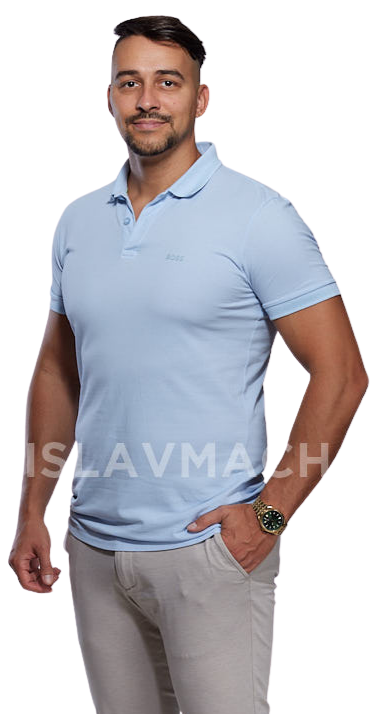
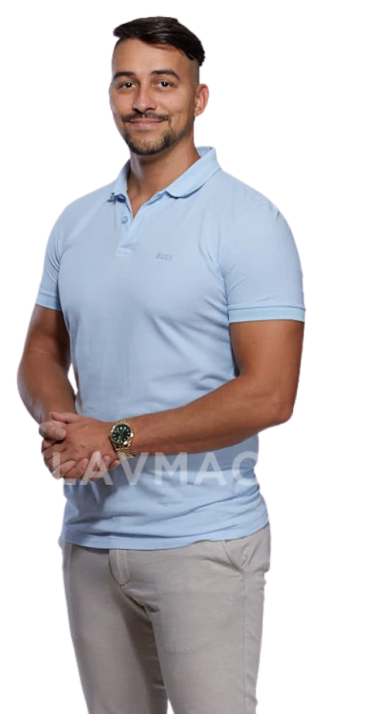
Nová fotka v hero O mně, opravy tabletu a mezer
- O mně: nová fotka v hero, usazená na stejnou velikost a místo hlavy
- tablet: Google hodnocení na lince s 5,0, jedna tečka pod 2. sloupcem Článků
- řádky název | text: mezera 32 px (gap: 0 ji dřív vynuloval) na 6 stránkách
- Recenze: poslední recenze → tlačítko 32 px
- check:spacing hlídá i mezeru textu vedle názvu
- úkol: přepsat pasáž o začátku v oboru na O mně

Changed region(s): [[0.0, 0.0, 1.0, 1.0], [0.4424, 0.8011, 0.5013, 0.8627], [0.4129, 0.4314, 0.4718, 0.493]]

diff --git a/docs/audits/prelaunch-p0-status.md b/docs/audits/prelaunch-p0-status.md
@@ -265,26 +265,32 @@ Nic z tohoto jsem sám neměnil (mimo rozsah, zadání to výslovně zakazuje):
 2. **Úpravy zobrazení pro mobil a desktop** (spolu s Claude — po každé úpravě `npm run check:layout` + `npm run check:typo`).
 3. **Favicon + obrázek pro sdílení (OG, 1200×630)** — uživatel dodá logo/fotku, Claude z nich připraví všechny velikosti a doplní meta značky. Bez faviconu hlásí každá stránka 404 v konzoli (jediná výtka Lighthouse).
 4. **Sekce Články na homepage** — dnes 3 zástupné řádky („Titulek - placeholder“), návštěvník je uvidí. Uživatel chce články dodat před spuštěním; **pokud nebudou hotové, sekci před spuštěním skrýt**.
+5. **/o-mne — doplnit nebo přepsat pasáž o začátku v oboru** (uživatel se k ní chce ještě vrátit, 4. 10. 2026). Jde o tyto tři odstavce:
+   > Jeden můj známý tehdy pracoval jako ředitel v poradenské společnosti. Ozval jsem se mu a domluvili jsme se, že za ním budu po práci chodit a učit se, jak finance a finanční poradenství fungují v praxi.
+   >
+   > Po pár týdnech se mě zeptal, jestli bych se tím nechtěl začít živit. Bavilo mě to, připadalo mi to zajímavé a dávalo mi smysl pomáhat lidem řešit podobné otázky, které jsem předtím začal řešit sám.
+   >
+   > Rozhodl jsem se proto začít ve finančním poradenství podnikat a dál se v oboru vzdělávat.
 
 **B) Při spouštění webu (spolu, podle `docs/deploy-wedos.md`)**
-5. Wedos: SSL certifikát (před nahráním), PHP 8.1+, schránka `poptavka@patrikgajdadzis.cz`.
-6. DNS: SPF, DKIM, DMARC (doručitelnost poptávek).
-7. Nahrát `dist/` včetně skrytých `.htaccess` a `api/.htaccess`.
-8. Živé testy: přesměrování (www/http/lomítko), bezpečnostní hlavičky, stránka 404 vrací kód 404, **zkušební poptávka dorazí do obou schránek** (ne do spamu), `api/limity/` vrací 403, web projít na skutečném iPhonu.
+6. Wedos: SSL certifikát (před nahráním), PHP 8.1+, schránka `poptavka@patrikgajdadzis.cz`.
+7. DNS: SPF, DKIM, DMARC (doručitelnost poptávek).
+8. Nahrát `dist/` včetně skrytých `.htaccess` a `api/.htaccess`.
+9. Živé testy: přesměrování (www/http/lomítko), bezpečnostní hlavičky, stránka 404 vrací kód 404, **zkušební poptávka dorazí do obou schránek** (ne do spamu), `api/limity/` vrací 403, web projít na skutečném iPhonu.
 
 **C) V den spuštění**
-9. **Google profil: změnit web z `pafinga.cz` na `patrikgajdadzis.cz`** (business.google.com → Upravit profil → Web). Jinak Google profil a nový web nespojí.
-10. **Co s `pafinga.cz`?** — rozhodnout: pokud na ní běží web nebo na ni vedou odkazy, nastavit trvalé přesměrování (301) na `patrikgajdadzis.cz`, aby se neztratila návštěvnost ani pozice ve vyhledávání.
-11. Google Search Console + Bing Webmaster Tools — ověřit doménu, odeslat `sitemap.xml`.
-12. Google Analytics 4 — založit, vložit ID do `CookieConsent.astro` (`loadAnalytics()`), **uchovávání dat nastavit na 14 měsíců** (výchozí 2 — jinak nesedí se zásadami OÚ), události: odeslání formuláře, kliknutí na telefon.
-13. Hlídání dostupnosti webu (např. UptimeRobot, zdarma).
+10. **Google profil: změnit web z `pafinga.cz` na `patrikgajdadzis.cz`** (business.google.com → Upravit profil → Web). Jinak Google profil a nový web nespojí.
+11. **Co s `pafinga.cz`?** — rozhodnout: pokud na ní běží web nebo na ni vedou odkazy, nastavit trvalé přesměrování (301) na `patrikgajdadzis.cz`, aby se neztratila návštěvnost ani pozice ve vyhledávání.
+12. Google Search Console + Bing Webmaster Tools — ověřit doménu, odeslat `sitemap.xml`.
+13. Google Analytics 4 — založit, vložit ID do `CookieConsent.astro` (`loadAnalytics()`), **uchovávání dat nastavit na 14 měsíců** (výchozí 2 — jinak nesedí se zásadami OÚ), události: odeslání formuláře, kliknutí na telefon.
+14. Hlídání dostupnosti webu (např. UptimeRobot, zdarma).
 
 **D) Po spuštění**
-14. Články: obsah + stránka detailu článku + `Article` schema; `/clanky` zapnout (odstranit `noindex`, přidat do menu, patičky a `sitemap.xml`).
-15. Otevírací doba do strukturovaných dat (`openingHoursSpecification`) — dodat celý týden (profil ukazuje 8–18).
-16. Vrátit „Kariéra“ do patičky, až bude cílová stránka.
+15. Články: obsah + stránka detailu článku + `Article` schema; `/clanky` zapnout (odstranit `noindex`, přidat do menu, patičky a `sitemap.xml`).
+16. Otevírací doba do strukturovaných dat (`openingHoursSpecification`) — dodat celý týden (profil ukazuje 8–18).
+17. Vrátit „Kariéra“ do patičky, až bude cílová stránka.
 
 **E) Doporučené (kdykoli, nejlépe brzy)**
-17. Vzdálená záloha gitu (soukromý GitHub/GitLab) — dnes je repozitář jen na OneDrivu.
-18. Přesunout projekt mimo OneDrive — synchronizace `node_modules` způsobuje hromadné dotazy na mazání a hrozí promíchání knihoven.
-19. Drobnosti bez dopadu na návštěvníka: hláška Vite „Failed to scan for dependencies“ v dev režimu, blokující CSS ~0,5 s při simulaci pomalého mobilu (rychlost i tak 98–100).
+18. Vzdálená záloha gitu (soukromý GitHub/GitLab) — dnes je repozitář jen na OneDrivu.
+19. Přesunout projekt mimo OneDrive — synchronizace `node_modules` způsobuje hromadné dotazy na mazání a hrozí promíchání knihoven.
+20. Drobnosti bez dopadu na návštěvníka: hláška Vite „Failed to scan for dependencies“ v dev režimu, blokující CSS ~0,5 s při simulaci pomalého mobilu (rychlost i tak 98–100).
